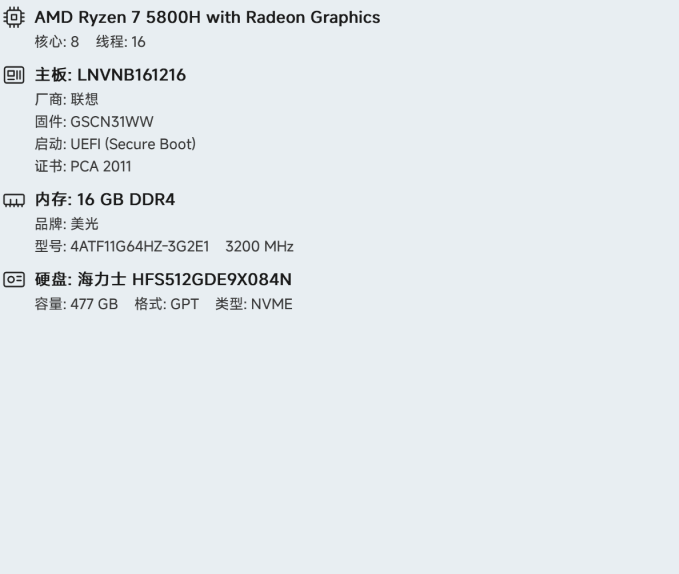
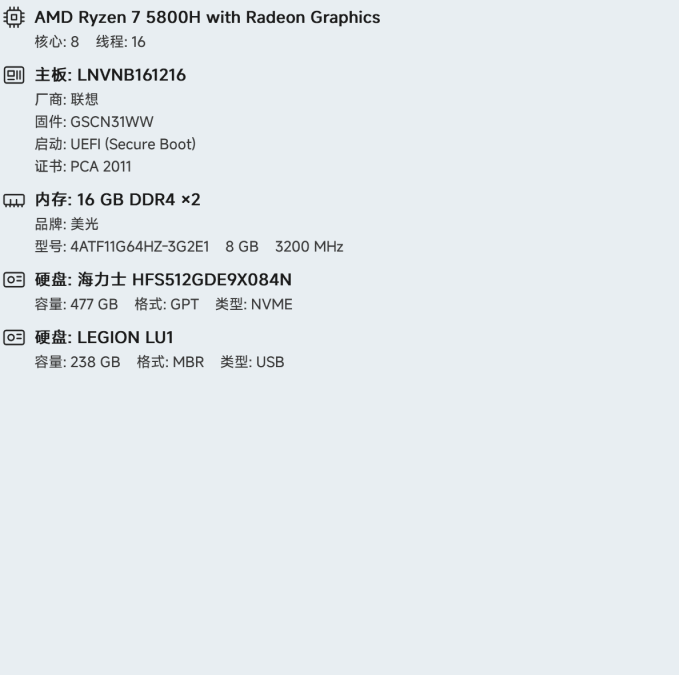
Recognize LPDDR variants and show memory count

Changed region(s): [[0.0, 0.0, 0.5567, 0.5627]]

diff --git a/hspec.cpp b/hspec.cpp
@@ -414,6 +414,9 @@ static const wchar_t* MemTypeName(int type)
     case 0x13: return L"DDR2";
     case 0x18: return L"DDR3";
     case 0x1A: return L"DDR4";
+    case 0x1B: return L"LPDDR";
+    case 0x1C: return L"LPDDR2";
+    case 0x1D: return L"LPDDR3";
     case 0x1E: return L"LPDDR4";
     case 0x1F: return L"NVDIMM";
     case 0x20: return L"HBM";
@@ -939,8 +942,13 @@ static void BuildModel(void)
         firstSpeed = g_smbios.mem[0].speed;
     }
     double totalGb = (double)totalBytes / 1073741824.0;
-    if (memType[0])
+    int memCount = g_smbios.memCount;
+    if (memType[0] && memCount > 1)
+        WPrintf(memTitle, 256, L"内存: %.0f GB %s ×%d", totalGb, memType, memCount);
+    else if (memType[0])
         WPrintf(memTitle, 256, L"内存: %.0f GB %s", totalGb, memType);
+    else if (memCount > 1)
+        WPrintf(memTitle, 256, L"内存: %.0f GB ×%d", totalGb, memCount);
     else
         WPrintf(memTitle, 256, L"内存: %.0f GB", totalGb);
 
@@ -974,12 +982,24 @@ static void BuildModel(void)
             wcsncat_s(memDetail, 256, g_smbios.mem[1].part, _TRUNCATE);
         }
         if (firstSpeed > 0) {
-            wchar_t d[320];
-            WPrintf(d, 320, L"型号: %s    %d MHz", memDetail, firstSpeed);
+            wchar_t modSize[32] = { 0 };
+            if (g_smbios.memCount > 0)
+                FormatCapacity(g_smbios.mem[0].bytes, modSize, 32);
+            wchar_t d[384];
+            if (modSize[0])
+                WPrintf(d, 384, L"型号: %s    %s    %d MHz", memDetail, modSize, firstSpeed);
+            else
+                WPrintf(d, 384, L"型号: %s    %d MHz", memDetail, firstSpeed);
             ModelAddDetail(r, d);
         } else {
-            wchar_t d[320];
-            WPrintf(d, 320, L"型号: %s", memDetail);
+            wchar_t modSize[32] = { 0 };
+            if (g_smbios.memCount > 0)
+                FormatCapacity(g_smbios.mem[0].bytes, modSize, 32);
+            wchar_t d[384];
+            if (modSize[0])
+                WPrintf(d, 384, L"型号: %s    %s", memDetail, modSize);
+            else
+                WPrintf(d, 384, L"型号: %s", memDetail);
             ModelAddDetail(r, d);
         }
     }

diff --git a/README.md b/README.md
@@ -12,9 +12,9 @@
 │                                               厂商: ASUSTeK COMPUTER INC.
 │                                               固件: 2801
 │                                               启动: UEFI (Secure Boot)
-│                                               证书: Pca 2011
-│                                        [图标] 内存: 32 GB DDR4
-│                                               型号: CMK32GX4M2B3200C16    3200 MHz
+│                                               证书: PCA 2011
+│                                        [图标] 内存: 32 GB DDR4 ×2
+│                                               型号: CMK32GX4M2B3200C16    16 GB    3200 MHz
 │                                        [图标] 硬盘: Samsung SSD 970 EVO Plus 1TB
 │                                               容量: 932 GB    格式: GPT    类型: NVME
 └ 图标区
